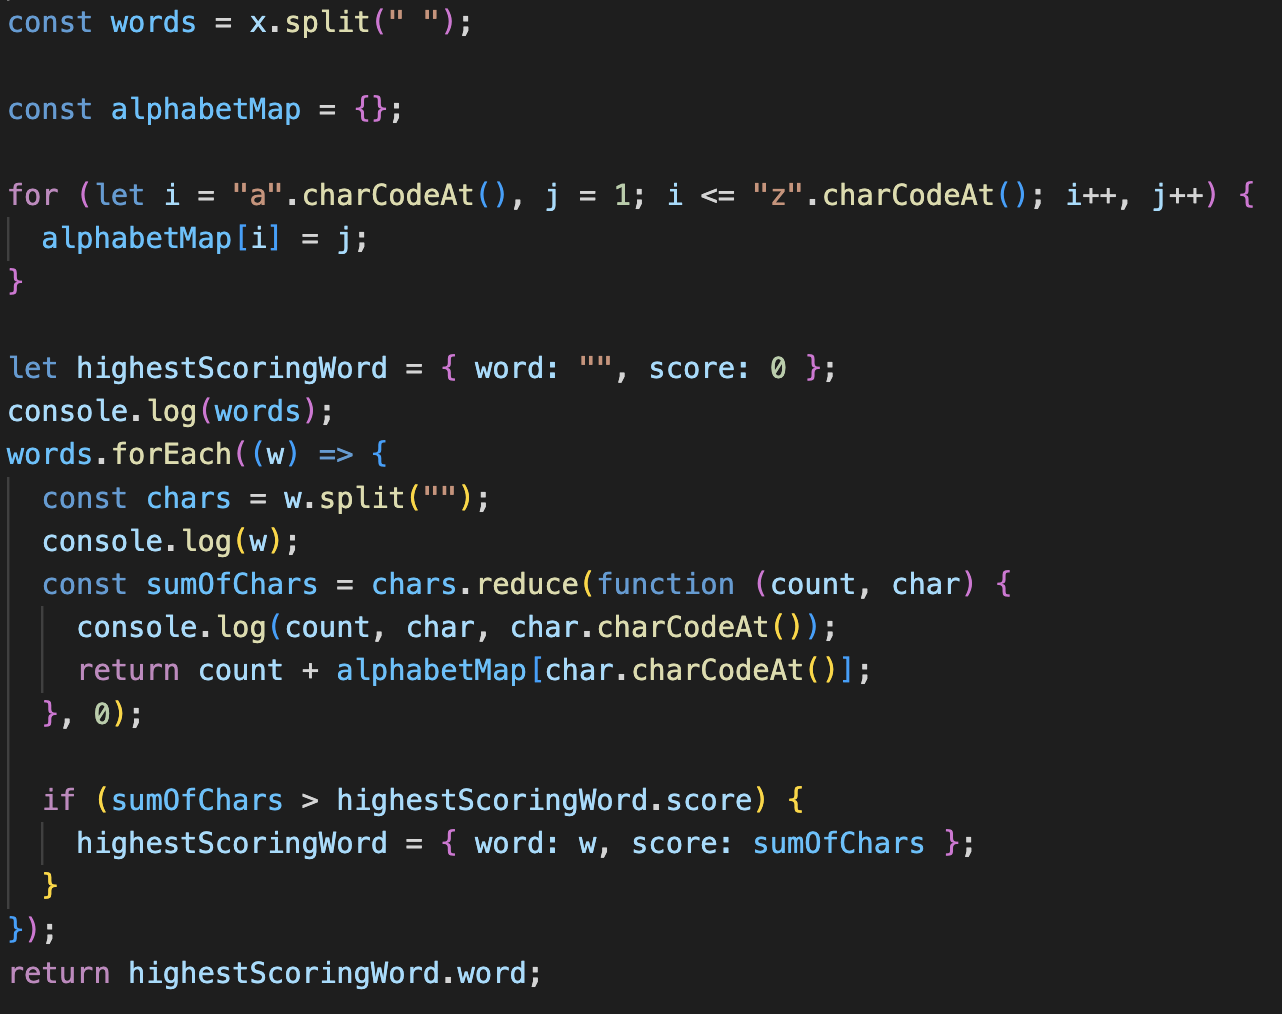
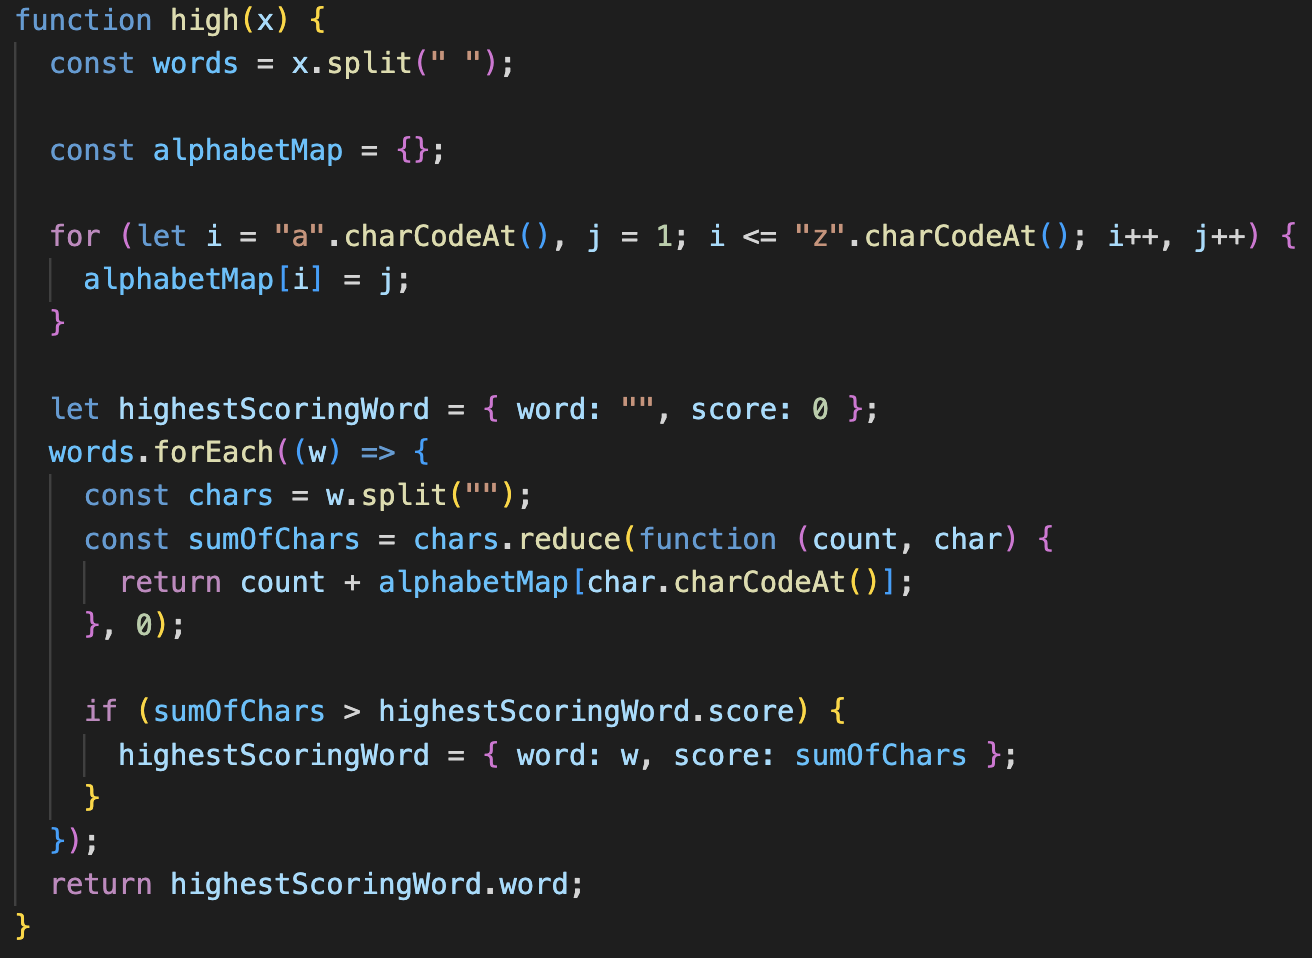
last changes with code snippets

diff --git a/kata.js b/kata.js
@@ -1,10 +1,5 @@
 //******************************************* Kata Word Score *******************************************
 function high(x) {
-
-    let abc = [
-        "a", "b", "c", "d", "e", "f", "g", "h", "i", "j", "k", "l", "m", "n", "o", "p", "q", "r", "s", "t", "u", "v", "w", "x", "y", "z",
-    ];
-  
   const words = x.split(" ");
 
   const alphabetMap = {};
@@ -14,12 +9,9 @@ function high(x) {
   }
 
   let highestScoringWord = { word: "", score: 0 };
-  console.log(words);
   words.forEach((w) => {
     const chars = w.split("");
-    console.log(w);
     const sumOfChars = chars.reduce(function (count, char) {
-      console.log(count, char, char.charCodeAt());
       return count + alphabetMap[char.charCodeAt()];
     }, 0);
 
